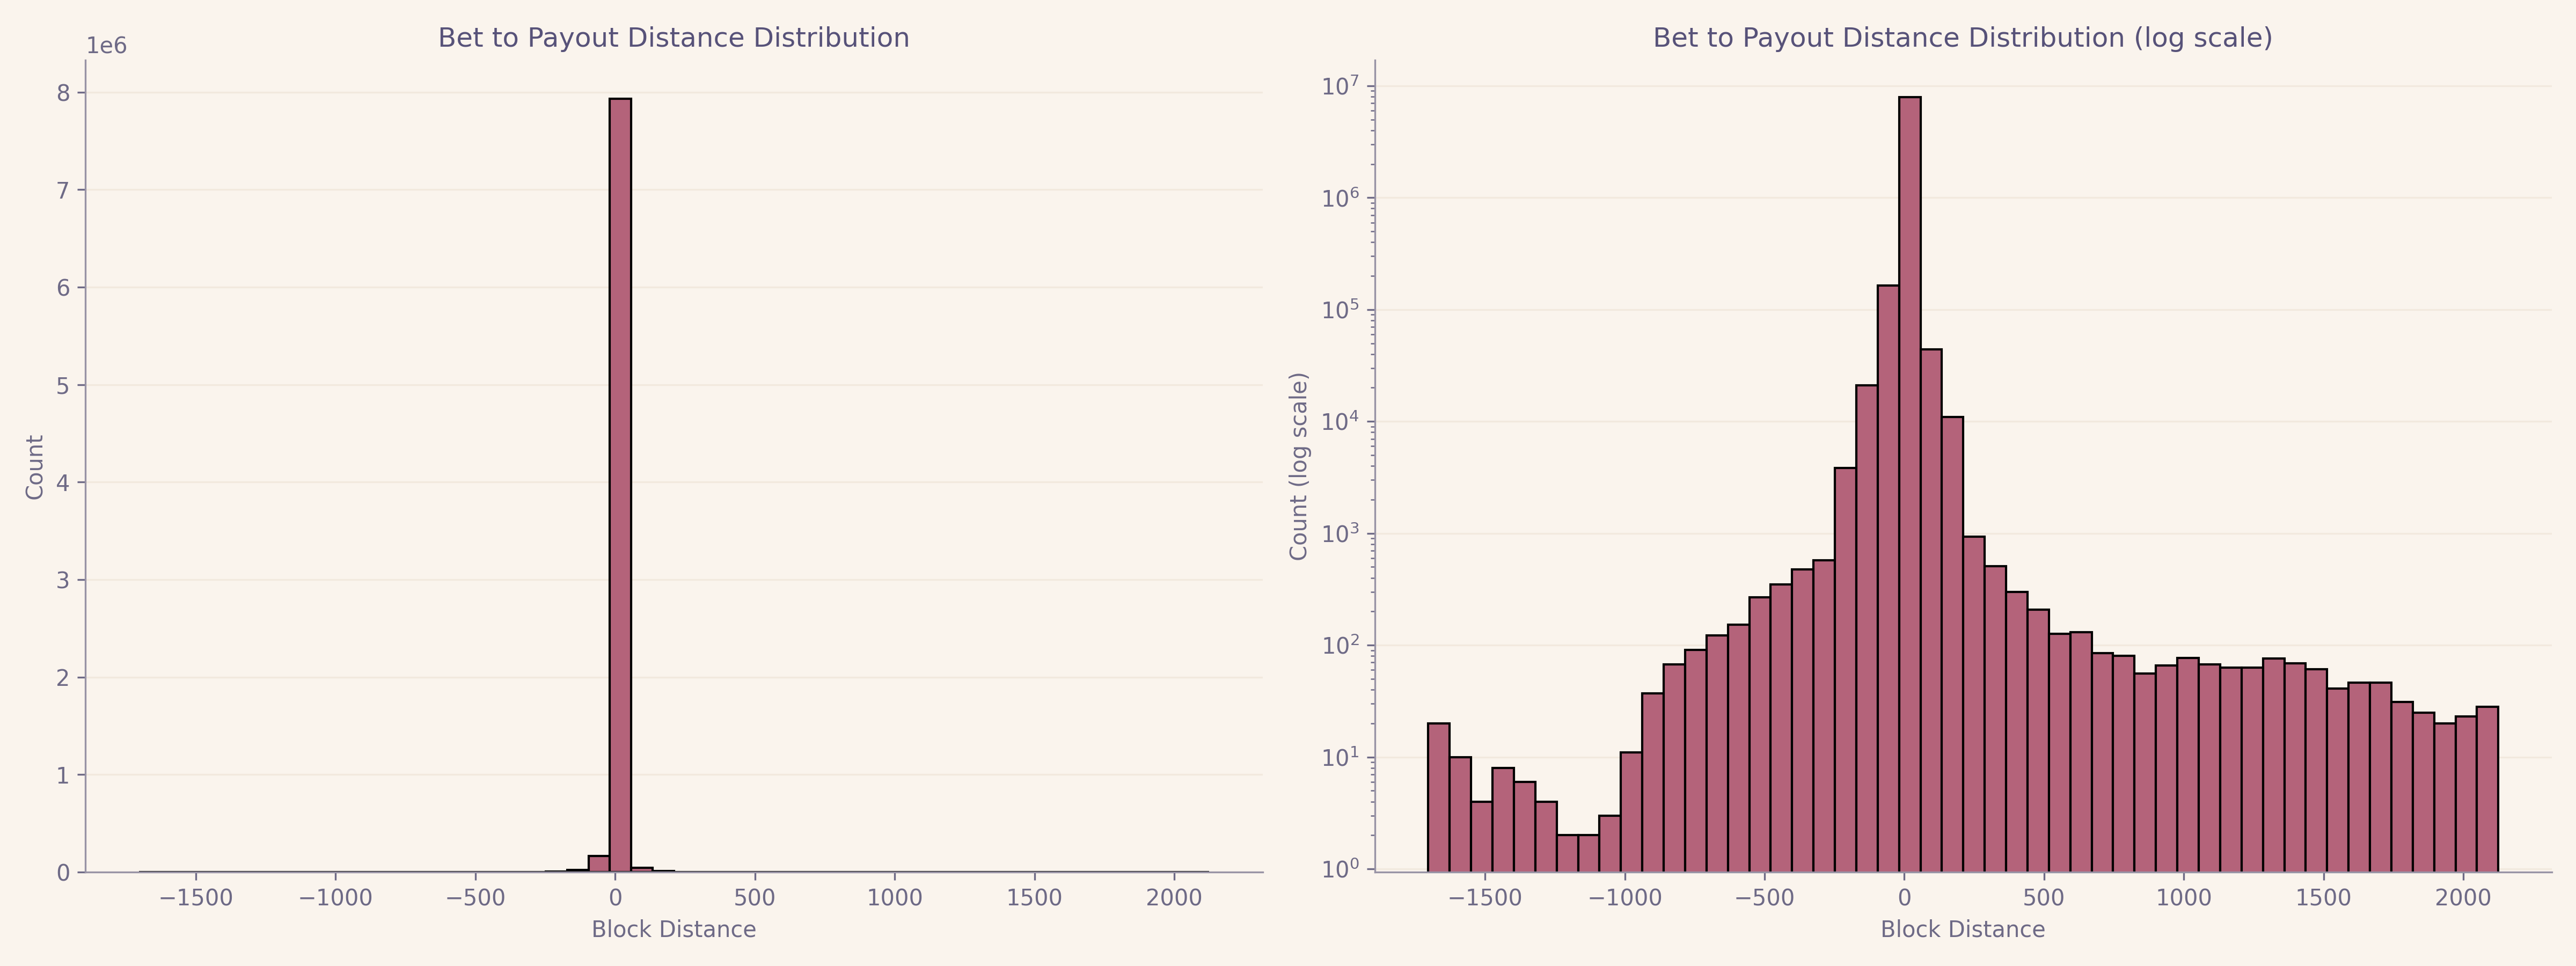
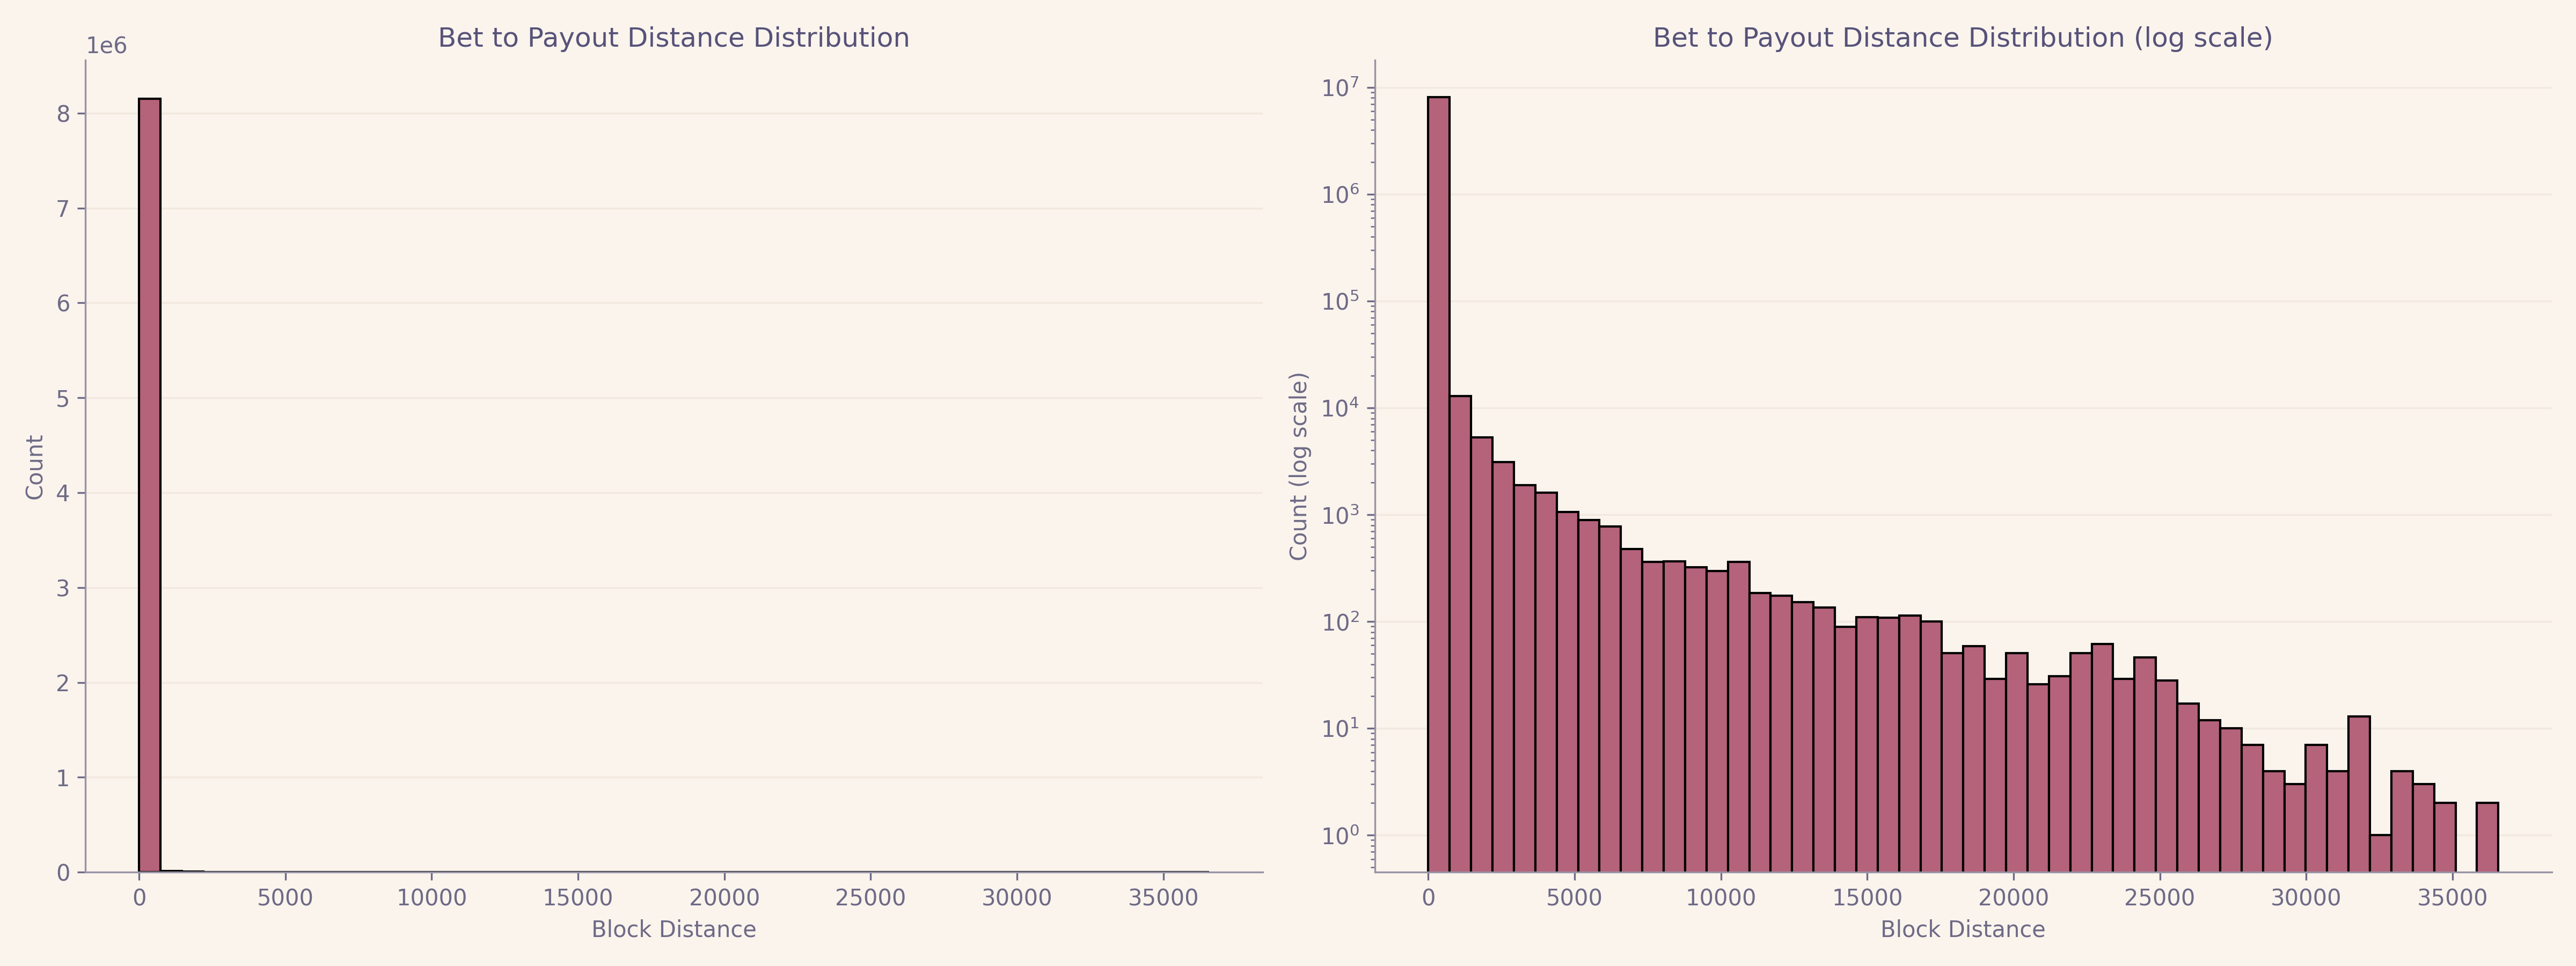
Almost finished first analysis, still has some rough edges that need ironing

diff --git a/src/analysis1_satoshi_payout_distance.py b/src/analysis1_satoshi_payout_distance.py
@@ -1,9 +1,14 @@
-import pandas
 from plots import plot_payout_distance_distribution
+from data_loader import read_parquet
 
-satoshi_payouts = pandas.read_parquet("../data/processed/satoshi_payouts.parquet")
+inputs = read_parquet("inputs")
+transactions = read_parquet("transactions")
+satoshi_bets = read_parquet("satoshi_bets")
 
-# TODO: this is most likely correct but need to correct the merging
-payout_distance = satoshi_payouts["position"] - satoshi_payouts["previous_transaction_position"]
+# TODO: Could probably optimize this further
+satoshi_inputs = inputs[inputs["previous_transaction_id"].isin(satoshi_bets["transaction_id"].unique())]
+inputs_block = satoshi_inputs.merge(transactions)
 
-plot_payout_distance_distribution(payout_distance)
+transaction_connection = inputs_block.merge(satoshi_bets, left_on="previous_transaction_id", right_on="transaction_id")
+
+plot_payout_distance_distribution(transaction_connection["block_id_x"] - transaction_connection["block_id_y"])

diff --git a/src/analysis1_satoshi_temporal_bet_distribution.py b/src/analysis1_satoshi_temporal_bet_distribution.py
@@ -1,0 +1,13 @@
+import pandas
+from data_loader import read_parquet
+from plots import plot_time_distribution
+
+satoshi_bets = read_parquet("satoshi_bets")
+
+print(satoshi_bets.columns)
+
+def temporal_distribution(bets: pandas.DataFrame):
+    plot_time_distribution(bets.resample("1W", on="timestamp").size(), "Week")
+
+# TODO: Do this also for the other 2 most popular
+temporal_distribution(satoshi_bets[satoshi_bets["Name"] == "lessthan 32000"])

diff --git a/src/data_loader.py b/src/data_loader.py
@@ -6,7 +6,11 @@ def read_dataset(name, columns):
 def save_parquet(dataframe: pandas.DataFrame, name):
     return dataframe.to_parquet(f"../data/processed/{name}.parquet", index=False)
 
+def read_parquet(name):
+    return pandas.read_parquet(f"../data/processed/{name}.parquet")
+
 inputs = read_dataset("inputs.csv", ["transaction_id", "previous_transaction_id", "previous_transaction_position"])
+inputs = inputs.drop(columns=["previous_transaction_position"])
 save_parquet(inputs, "inputs")
 
 outputs = read_dataset("outputs.csv", ["transaction_id", "position", "address_id", "amount", "script_type"])
@@ -14,7 +18,7 @@ outputs = outputs.drop(columns=["script_type"])
 save_parquet(outputs, "outputs")
 
 transactions = read_dataset("transactions.csv", ["timestamp", "block_id", "transaction_id", "is_codebase", "fee"])
-transactions = transactions.drop(columns=["is_codebase", "fee"])
+transactions = transactions.drop(columns=["is_codebase"])
 transactions["timestamp"] = pandas.to_datetime(transactions["timestamp"], unit="s")
 save_parquet(transactions, "transactions")
 
@@ -24,14 +28,14 @@ save_parquet(mappings, "mappings")
 satoshi_dices = pandas.read_csv("../satoshiDiceInfos.tsv", sep='\t')[["Name", "Address"]]
 save_parquet(satoshi_dices, "satoshi_dices")
 
-transactions_amount = outputs.merge(mappings).merge(transactions)[["hash", "amount", "timestamp", "transaction_id", "position"]]
+transactions_amount = outputs.merge(mappings).merge(transactions)[["hash", "amount", "timestamp", "transaction_id", "block_id", "fee"]]
 save_parquet(transactions_amount, "transactions_amount")
 
 satoshi_bets = transactions_amount.merge(satoshi_dices, right_on="Address", left_on="hash")
 satoshi_bets = satoshi_bets.drop(columns=["Address"])
 save_parquet(satoshi_bets, "satoshi_bets")
 
-# TODO: This is probably wrong, its not merging correctly
+
 satoshi_payouts = inputs.merge(satoshi_bets, left_on="previous_transaction_id", right_on="transaction_id")
 satoshi_payouts = satoshi_payouts.drop(columns=["previous_transaction_id"])
 

diff --git a/src/plots.py b/src/plots.py
@@ -50,3 +50,12 @@ def plot_payout_distance_distribution(dataframe):
     ax2.set_title("Bet to Payout Distance Distribution (log scale)")
 
     save_plot_image("payout_distance_distribution")
+
+def plot_time_distribution(series, freq: str) -> None:
+    ax = series.plot(kind='bar', figsize=(12, 4))
+    ax.set_title(f'Transactions per {freq}')
+    ax.set_xlabel('Time')
+    ax.set_ylabel('Count')
+    pyplot.xticks(rotation=45, ha='right')
+    
+    save_plot_image("popular_time_distribution")

diff --git a/src/analysis1_satoshi_bet_correlation.py b/src/analysis1_satoshi_bet_correlation.py
@@ -1,0 +1,6 @@
+from data_loader import read_parquet
+
+satoshi_bets = read_parquet("satoshi_bets")
+
+# Probably no correlation, need to plot it
+print(satoshi_bets["fee"].corr(satoshi_bets["amount"]))

diff --git a/src/analysis1_satoshi_popularity.py b/src/analysis1_satoshi_popularity.py
@@ -1,8 +1,6 @@
-import pandas
 from plots import plot_satoshi_dice_popularity
-satoshi_bets = pandas.read_parquet("../data/processed/satoshi_bets.parquet")
-
-print(satoshi_bets.columns)
+from data_loader import read_parquet
+satoshi_bets = read_parquet("satoshi_bets")
 
 satoshi_bets_amount = satoshi_bets.groupby(["hash", "Name"]).agg(
     amount=("amount", "sum"),

diff --git a/src/analysis1_satoshi_transactions.py b/src/analysis1_satoshi_transactions.py
@@ -1,8 +1,9 @@
 import pandas
 from plots import plot_absolute_transaction_percentage, plot_relative_transaction_percentage
+from data_loader import read_parquet
 
-transactions_amount = pandas.read_parquet("../data/processed/transactions_amount.parquet")
-satoshi_bets = pandas.read_parquet("../data/processed/satoshi_bets.parquet")
+transactions_amount = read_parquet("transactions_amount")
+satoshi_bets = read_parquet("satoshi_bets")
 
 def resample(dataframe, start):
 	TIME_STEP = "1ME"